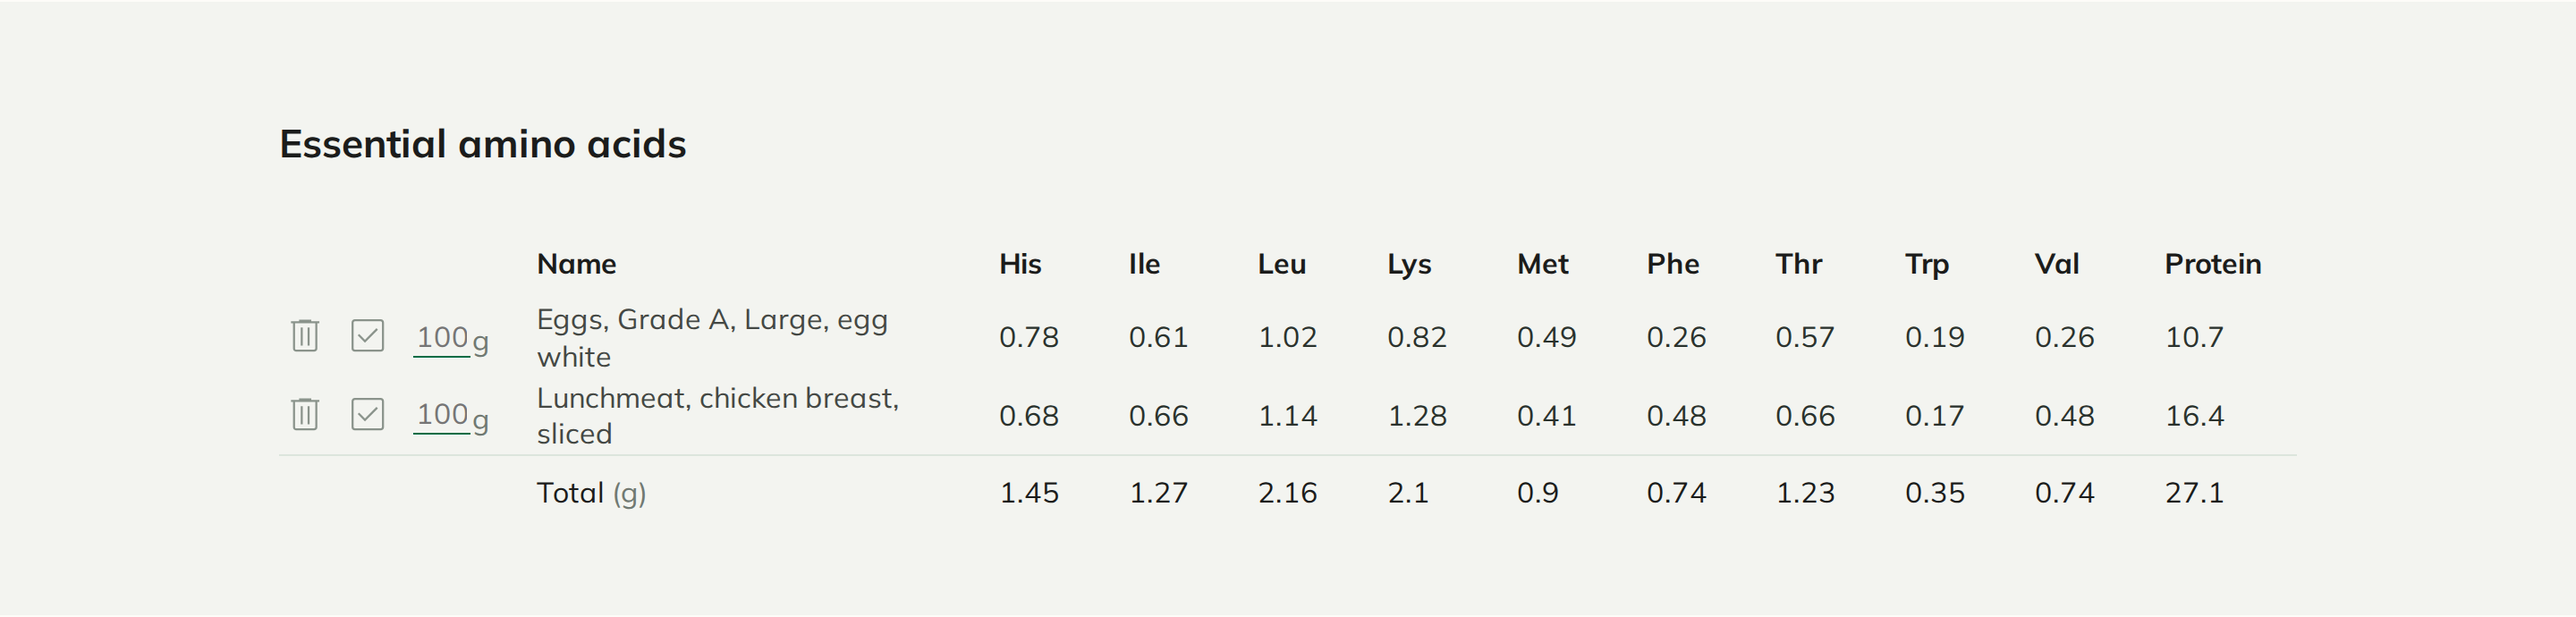
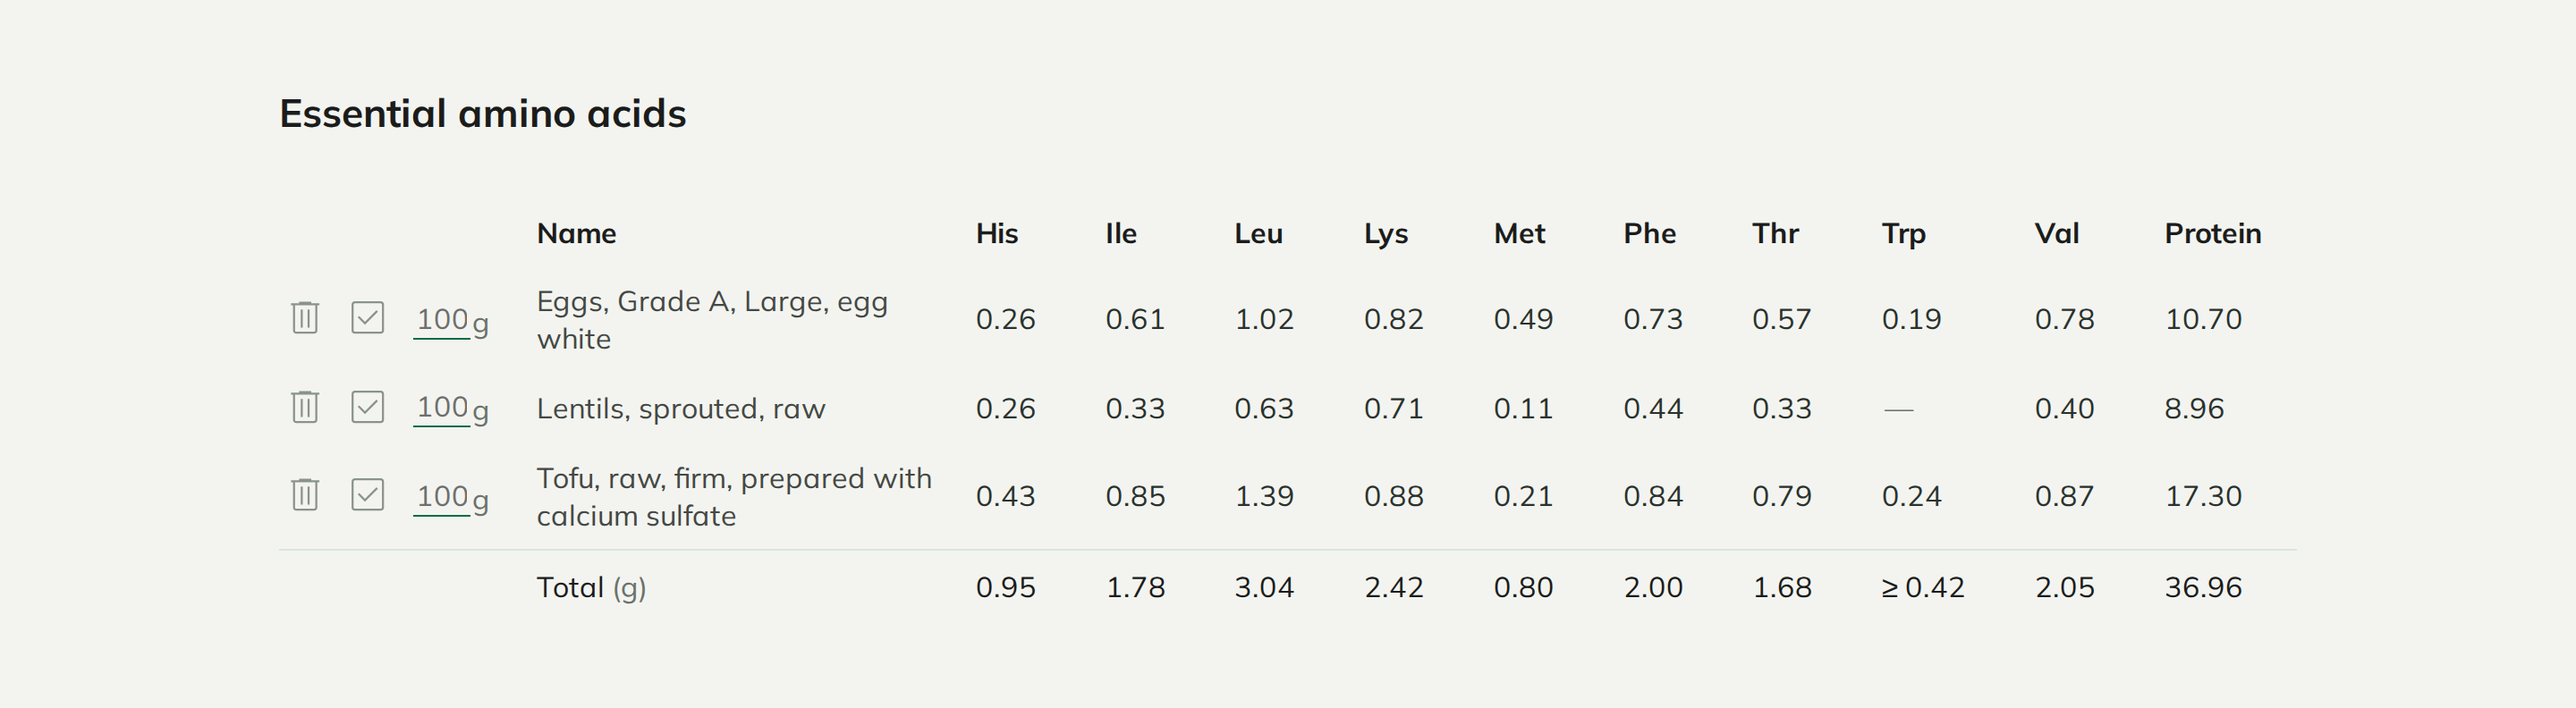
README: how it was built, then and since; screenshots of the current site
- "How it was built" has two parts: 2023-2024 (designed in Figma after Material Design 3, built
  by hand without AI: 14 commits in October 2023 and a new table in autumn 2024) and November 2026
  (back online with Claude Code), the second as short points. The long details moved to a
  "Technical notes" section near the end.
- "What it does" mentions the snackbar, the full names on hover and the dash.
- A link to aminoprofile.com at the top.
- Both screenshots are retaken from the live site: the search with the snackbar after adding a
  food, and the table with three foods, one with a missing tryptophan value (a dash) and a "≥"
  total.

diff --git a/README.md b/README.md
@@ -1,126 +1,82 @@
 # Aminoprofile
 
-Search for foods and compare their essential amino acids. Aminoprofile looks foods up in
-[USDA FoodData Central](https://fdc.nal.usda.gov/), shows which results have amino acid data,
-and adds up the nine essential amino acids and protein of the foods you pick.
+**[aminoprofile.com](https://aminoprofile.com)**: search for foods and compare their essential
+amino acids.
 
-![Search results for "chicken breast"](docs/screenshots/search.png)
+Aminoprofile looks foods up in [USDA FoodData Central](https://fdc.nal.usda.gov/), shows which
+results have amino acid data, and adds up the nine essential amino acids and protein of the foods
+you pick.
 
-![The essential amino acids table with two foods and their total](docs/screenshots/amino-acids.png)
+![Search results for "chicken breast", with a message that a food was added to the table](docs/screenshots/search.png)
+
+![The essential amino acids table with three foods and their total](docs/screenshots/amino-acids.png)
 
 ## What it does
 
 - **Search.** Type a food and press Enter. Results come from the *Foundation Foods* and
-  *SR Legacy* data sets of FoodData Central, the two that have amino acid data. Every word you
-  type must be in the food's name (if that finds nothing, any word will do), and the 25 best
-  matches are shown. Foods with amino acid data are listed first and marked with a green sprout;
-  the number next to it is how many nutrients USDA has for that food.
+  *SR Legacy* data sets of FoodData Central, the two that have amino acid data. Foods with amino
+  acid data are listed first and marked with a green sprout; the number next to it is how many
+  nutrients USDA has for that food.
 - **Compare.** Click a food (or press Enter on it) to add it to the *Essential amino acids*
-  table: histidine, isoleucine, leucine, lysine, methionine, phenylalanine, threonine,
-  tryptophan, valine and protein, in grams. A missing value shows as a dash (—), which is not
-  the same as 0.
-- **Combine.** Change the amount per food (100 g by default) and tick the foods to include. Each
-  row shows the grams for its amount, and the *Total* row adds up the ticked rows, so you can see
-  what a combination of foods gives you. When a ticked food has no value for an amino acid, its
-  total is marked "≥": the real amount is at least that.
+  table. A message at the bottom confirms it, with a button that takes you to the table. The
+  columns are histidine, isoleucine, leucine, lysine, methionine, phenylalanine, threonine,
+  tryptophan, valine and protein, in grams; hover an abbreviation for its full name. A value
+  USDA does not have shows as a dash (—), which is not the same as 0.
+- **Combine.** Change the amount per food (100 g by default) and tick the foods to include. The
+  *Total* row adds up the ticked rows, so you can see what a combination of foods gives you.
+  When a ticked food has no value for an amino acid, its total is marked "≥": the real amount is
+  at least that.
 
 Aminoprofile is a desktop site. Below 1240 pixels wide it shows a "will be available on mobile
 soon" screen, as it did in 2023.
 
-## Origin
+## How it was built
 
-Aminoprofile was designed in Figma first and then built by hand in October 2023, without any AI
-assistance: Nuxt 3, Vue, Pinia, Pug templates and SCSS, with its own colour palette and
-typefaces (Mulish and Young Serif). The design closely follows Google's
-[Material Design 3](https://m3.material.io/), which inspired it: the colour roles and tonal
-palettes in `assets/style/_variables.scss`, the surfaces, and the Material Symbols icons. It
-ran at aminoprofile.com until it was taken offline.
+### 2023–2024: designed in Figma, built by hand
 
-## 2026 maintenance
+- **Designed in Figma first**, closely following Google's
+  [Material Design 3](https://m3.material.io/), which inspired it: the colour roles and tonal
+  palettes (`assets/style/_variables.scss`), the surfaces, and the Material Symbols icons. The
+  typefaces are Mulish and Young Serif.
+- **Built by hand, without any AI assistance**: 14 commits in October 2023, and a new amino acid
+  table in autumn 2024. Nuxt 3, Vue, Pinia, Pug templates and SCSS.
+- It ran at aminoprofile.com until it was taken offline.
 
-In November 2026 the site was prepared to go back online. This maintenance was done with
-[Claude Code](https://claude.com/claude-code). The look and the texts were deliberately left as
-they were in 2023, apart from four small additions (the last item below). What changed:
+### November 2026: back online, with Claude Code
 
-- **API key on the server.** The browser used to call FoodData Central directly, so the API key
-  was shipped in the JavaScript bundle. Searches now go through a server route
-  (`server/api/foods/search.get.ts`) that holds the key. That route accepts only a search term
-  of 2 to 100 characters, has a 15 second timeout and passes on no upstream error details.
-- **The right numbers.** Three columns of the table showed the wrong amino acid: *His* showed
-  valine, and *Phe* and *Val* both showed histidine. The values are now picked by USDA's
-  nutrient id in one shared list (`shared/nutrients.ts`). Rows now show the grams for the amount
-  typed (the total already did), 0 g counts as 0 g instead of 100 g, removing a food no longer
-  unticks another one, and a food cannot be added twice.
-- **Search.** SR Legacy was added next to Foundation Foods: Foundation has amino acids for 118 of
-  its 424 foods, SR Legacy for about 5,100 of 7,793 (a search for lentils, tofu or salmon found
-  none before). The server picks the ten values the page uses out of USDA's answer, so the page
-  receives about 7 kB instead of the up to 0.9 MB USDA sends for 25 foods. A newer search
-  cancels an older one, pressing Enter twice asks only once, and there are messages for "too
-  short", "nothing found", "too many searches" (with the wait the server gives in
-  `Retry-After`), "no internet connection" and "database unavailable", the last two with a
-  *Try again* button. What is on screen stays until the next answer arrives; the spinner only
-  appears when an answer takes longer than 150 ms, so cached answers do not flicker.
-- **Caching.** Answers are kept in the server's memory (an hour, at most 200 searches), in
-  Cloudflare's cache (`caches.default`, a day) and in the browser (`Cache-Control`, an hour).
-  Identical searches that arrive at the same time ask USDA once (`server/utils/searchCache.ts`).
-- **Fonts.** Mulish and Young Serif are served as WOFF2 files with only the Latin characters
-  (57 kB instead of 316 kB of TTF), are preloaded, and use `font-display: swap`. Until they
-  arrive, text shows in Arial and the name in Times New Roman, resized to take the same room
-  (`size-adjust` and the metric overrides in `assets/style/app.scss`), so the page appears at
-  once with the name in place and hardly moves when the fonts swap in. Before, the name stayed
-  invisible until its font had loaded (3.2 s on a slow connection). The `*-Latin.woff2` files
-  were made from the TTF files next to them with
-  [subset-font](https://github.com/papandreou/subset-font) 2.9 (HarfBuzz), `targetFormat:
-  'woff2'`, for the characters of Google Fonts' "latin" range (U+0020-007E, U+00A0-00FF,
-  U+0131, U+0152-0153, U+02BB-02BC, U+02C6, U+02DA, U+02DC, U+0304, U+0308, U+0329,
-  U+2000-206F, U+20AC, U+2122, U+2191, U+2193, U+2212, U+2215, U+FEFF, U+FFFD). All OpenType
-  features and the whole weight axis of Mulish are kept: text renders exactly as with the TTF
-  files. Without JavaScript the page says that search needs it.
-- **No stylesheet to wait for.** The global stylesheet (2.5 kB) is inlined in the HTML, as the
-  component styles already were (`features.inlineStyles` in `nuxt.config.ts`), so the first
-  paint waits for no CSS request. Everything under `/_nuxt/` (scripts, styles, fonts) has a
-  content hash in its name and is cached for a year (`immutable`, in the generated `_headers`).
-- **Search engines, AI assistants and shared links.** `public/robots.txt` lets every crawler
-  read the pages but not `/api/`, and names the AI crawlers (GPTBot, OAI-SearchBot,
-  ChatGPT-User, ClaudeBot, Claude-SearchBot, Claude-User, PerplexityBot, Google-Extended,
-  Applebot-Extended, CCBot) with the same rules; `public/sitemap.xml` lists the two pages and
-  `public/llms.txt` ([llmstxt.org](https://llmstxt.org/)) says what the site does, where the
-  data comes from and whom to contact. Each page has its own title, description and canonical
-  link to `https://aminoprofile.com` (`shared/site.ts`), Open Graph and Twitter card tags with a
-  1200x630 picture in the site's style (`public/og-image.png`, made from
-  `docs/og-image.html`), and the home page describes itself as a `WebApplication` in JSON-LD.
-  There is also a `theme-color` (white, like the header) and a web manifest with the app icons.
-- **Accessibility.** The search box has a label; the search, info, remove and tick icons are
-  real buttons that work with the keyboard and have a visible focus ring; results can be added
-  with Enter; a status line tells screen readers what happened; the page has `lang="en"`,
-  landmarks and a correct heading order; and the few grey texts that measured below WCAG AA
-  contrast were darkened by an invisible amount. Greyed-out results and unticked rows stay pale
-  on purpose: they are inactive.
-- **Error page.** Unknown addresses get a "Page not found" page in the site's style, with a 404.
-- **Analytics without cookies.** Google Analytics was replaced by Cloudflare Web Analytics,
-  which uses no cookies and collects no personal data. It is only loaded when a token is
-  configured. Without cookies, the site needs no cookie banner.
-- **Security headers.** `X-Content-Type-Options`, `Referrer-Policy`, `X-Frame-Options`,
-  `Permissions-Policy`, `Strict-Transport-Security` and a light `Content-Security-Policy`, set in
-  `routeRules` in `nuxt.config.ts`.
-- **Privacy page** at `/privacy`, linked from the footer (and from the mobile screen).
-- **Two names that wrap.** In the search results the nutrient count now sits on the first line
-  of a two-line name, like the category; in the amino acids table a two-line name gets the same
-  room above and below as the amounts, so it no longer touches the next row.
-- **Dependencies.** Upgraded from Nuxt 3.7 to Nuxt 4 and Pinia 4. Unused packages were removed,
-  and the build output that had been committed by accident was taken out of the repository.
-- **Four small additions**, in the Material 3 style of the rest:
-  - *Favicon.* The sprout from the search results, filled, white on a rounded tile in the
-    primary green, as SVG, ICO (16/32/48), a 180 px iPhone icon and 192/512 px manifest icons
-    (one maskable). `scripts/make-favicons.py` makes them from `assets/icons/minerals.svg`.
-  - *Full names.* Hovering *His*, *Ile* and the other abbreviations shows the full amino acid name
-    in a Material plain tooltip.
-  - *Empty values.* A value FoodData Central does not have is a dash instead of "N/a", as in
-    Material data tables; its tooltip says which amino acid is missing, and an empty or
-    incomplete total says why.
-  - *Feedback when adding.* Clicking a result shows a Material snackbar at the bottom ("… added
-    to the table.") with a *View* button that scrolls to the table, which is usually below the
-    fold. It hides itself after 4 seconds.
+The site was prepared to go back online with [Claude Code](https://claude.com/claude-code). The
+look and the texts stayed as they were in 2023, apart from four small additions at the end of this
+list.
+
+- **The API key is off the page.** The browser used to call FoodData Central itself, so the key
+  was in the JavaScript. Searches now go through a server route that holds it.
+- **The right numbers.** Three columns showed the wrong amino acid (*His* showed valine; *Phe* and
+  *Val* both showed histidine). Values are now picked by USDA's nutrient id. Rows show the grams
+  for the amount typed, and 0 g counts as 0 g.
+- **More foods with amino acids.** SR Legacy was added next to Foundation Foods: about 5,100 foods
+  with amino acid data instead of 118. A search for lentils, tofu or salmon used to find none.
+- **Faster.** The page receives about 7 kB per search instead of up to 0.9 MB. Answers are cached
+  on the server, at Cloudflare and in the browser. The fonts went from 316 kB of TTF to 57 kB of
+  WOFF2, and the name no longer stays invisible while its font loads.
+- **Clear messages** for a search that is too short, finds nothing, comes too often, or fails
+  because the connection or the database is down.
+- **Accessible.** Keyboard use, visible focus, labels, a status line for screen readers,
+  landmarks, and WCAG AA contrast.
+- **Private.** Google Analytics was replaced by Cloudflare Web Analytics, which sets no cookies,
+  so there is no cookie banner. There is now a privacy page, security headers, and a 404 page in
+  the site's style.
+- **Findable.** robots.txt, a sitemap, `llms.txt`, and link previews for social media.
+- **Up to date.** Nuxt 3.7 became Nuxt 4, with Pinia 4. Unused packages and build output that had
+  been committed by accident were removed.
+- **Four small additions** in the Material 3 style of the rest:
+  - a favicon: the sprout from the search results, white on a rounded tile in the primary green;
+  - full names on hover: a Material tooltip on *His*, *Ile* and the other abbreviations;
+  - a dash instead of "N/a" for a missing value, as in Material data tables, with a tooltip that
+    says which amino acid is missing;
+  - a Material snackbar after adding a food ("… added to the table.") with a *View* button,
+    because the table is usually below the fold.
+
+The details are under [Technical notes](#technical-notes).
 
 ## Stack
 
@@ -176,6 +132,67 @@ The default build targets Cloudflare Workers:
 5. Add a WAF rate limiting rule for `/api/foods/search`, for example 10 requests per 10 seconds
    per IP address. Every search that is not cached uses the FoodData Central quota of the API
    key (1,000 requests per hour by default), so this keeps one visitor from using it all up.
+
+## Technical notes
+
+What the November 2026 work changed, in more detail.
+
+- **Search route.** `server/api/foods/search.get.ts` holds the API key, accepts only a search term
+  of 2 to 100 characters, has a 15 second timeout and passes on no upstream error details. Every
+  word typed must be in the food's name (if that finds nothing, any word will do), and the 25
+  best matches are shown. The server picks the ten values the page uses out of USDA's answer.
+- **Nutrients.** One shared list in `shared/nutrients.ts` maps each column to USDA's nutrient id.
+  Foundation Foods has amino acids for 118 of its 424 foods, SR Legacy for about 5,100 of 7,793.
+  Removing a food no longer unticks another one, and a food cannot be added twice.
+- **Searching.** A newer search cancels an older one, and pressing Enter twice asks only once.
+  "Too many searches" shows the wait the server gives in `Retry-After`; "no internet connection"
+  and "database unavailable" come with a *Try again* button. What is on screen stays until the
+  next answer arrives, and the spinner only appears when an answer takes longer than 150 ms, so
+  cached answers do not flicker.
+- **Caching.** Answers are kept in the server's memory (an hour, at most 200 searches), in
+  Cloudflare's cache (`caches.default`, a day) and in the browser (`Cache-Control`, an hour).
+  Identical searches that arrive at the same time ask USDA once (`server/utils/searchCache.ts`).
+- **Fonts.** Mulish and Young Serif are served as WOFF2 files with only the Latin characters, are
+  preloaded, and use `font-display: swap`. Until they arrive, text shows in Arial and the name in
+  Times New Roman, resized to take the same room (`size-adjust` and the metric overrides in
+  `assets/style/app.scss`), so the page hardly moves when the fonts swap in. Before, the name
+  stayed invisible until its font had loaded (3.2 s on a slow connection). The `*-Latin.woff2`
+  files were made from the TTF files next to them with
+  [subset-font](https://github.com/papandreou/subset-font) 2.9 (HarfBuzz), `targetFormat:
+  'woff2'`, for the characters of Google Fonts' "latin" range (U+0020-007E, U+00A0-00FF,
+  U+0131, U+0152-0153, U+02BB-02BC, U+02C6, U+02DA, U+02DC, U+0304, U+0308, U+0329,
+  U+2000-206F, U+20AC, U+2122, U+2191, U+2193, U+2212, U+2215, U+FEFF, U+FFFD). All OpenType
+  features and the whole weight axis of Mulish are kept.
+- **No stylesheet to wait for.** The global stylesheet (2.5 kB) is inlined in the HTML, as the
+  component styles already were (`features.inlineStyles` in `nuxt.config.ts`). Everything under
+  `/_nuxt/` has a content hash in its name and is cached for a year (`immutable`, in the
+  generated `_headers`). Without JavaScript the page says that search needs it.
+- **Search engines, AI assistants and shared links.** `public/robots.txt` lets every crawler read
+  the pages but not `/api/`, and names the AI crawlers (GPTBot, OAI-SearchBot, ChatGPT-User,
+  ClaudeBot, Claude-SearchBot, Claude-User, PerplexityBot, Google-Extended, Applebot-Extended,
+  CCBot) with the same rules. `public/sitemap.xml` lists the two pages, and `public/llms.txt`
+  ([llmstxt.org](https://llmstxt.org/)) says what the site does, where the data comes from and
+  whom to contact. Each page has its own title, description and canonical link
+  (`shared/site.ts`), Open Graph and Twitter card tags with a 1200x630 picture in the site's style
+  (`public/og-image.png`, made from `docs/og-image.html`), and the home page describes itself as a
+  `WebApplication` in JSON-LD. There is a `theme-color` and a web manifest with the app icons.
+- **Accessibility.** The search, info, remove and tick icons are real buttons with a visible focus
+  ring; the page has `lang="en"`, landmarks and a correct heading order. The few grey texts that
+  measured below WCAG AA contrast were darkened by an invisible amount. Greyed-out results and
+  unticked rows stay pale on purpose: they are inactive.
+- **Layout.** In the search results the nutrient count sits on the first line of a two-line
+  name, like the category; in the table a two-line name gets the same room above and below as
+  the amounts, so it no longer touches the next row.
+- **Security headers.** `X-Content-Type-Options`, `Referrer-Policy`, `X-Frame-Options`,
+  `Permissions-Policy`, `Strict-Transport-Security` and a light `Content-Security-Policy`, set in
+  `routeRules` in `nuxt.config.ts`. The privacy page is at `/privacy`, linked from the footer and
+  from the mobile screen.
+- **The four additions.** The favicon set is SVG, ICO (16/32/48), a 180 px iPhone icon and
+  192/512 px manifest icons (one maskable); `scripts/make-favicons.py` makes them from
+  `assets/icons/minerals.svg`. The tooltips are CSS only (`data-tip` in
+  `components/Ui/TableV2.vue`); a dash is read out as "No data". The snackbar
+  (`components/Ui/Search.vue`) hides itself after 4 seconds or at the next search, and *View*
+  scrolls to the table and focuses its heading.
 
 ## Data
 
